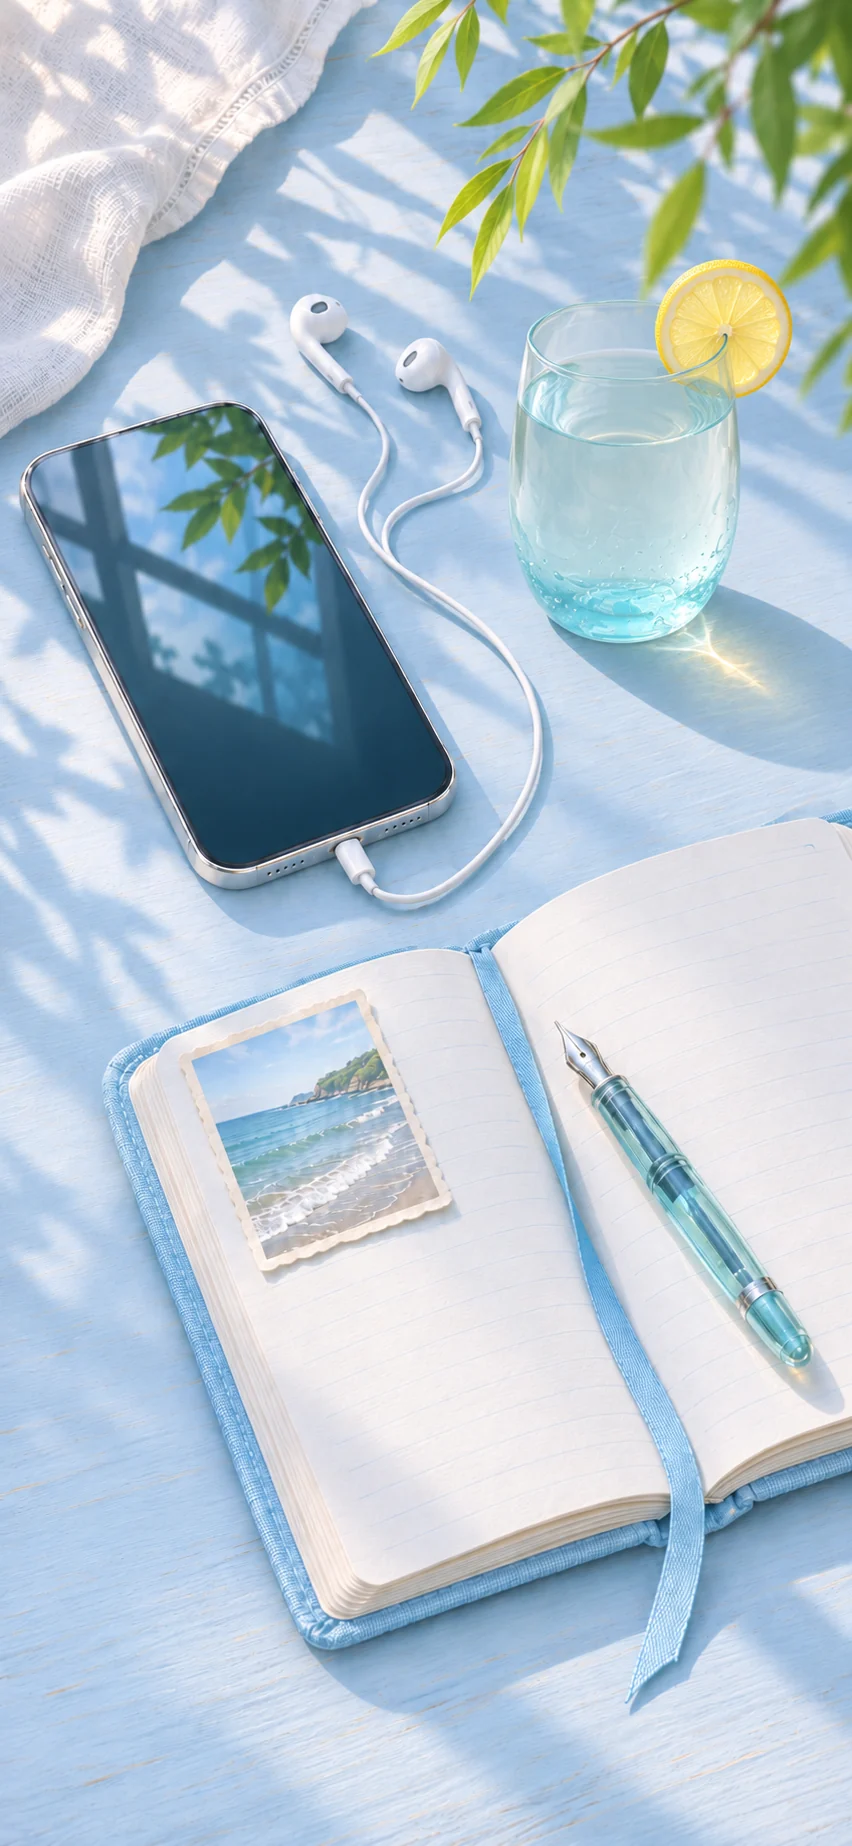
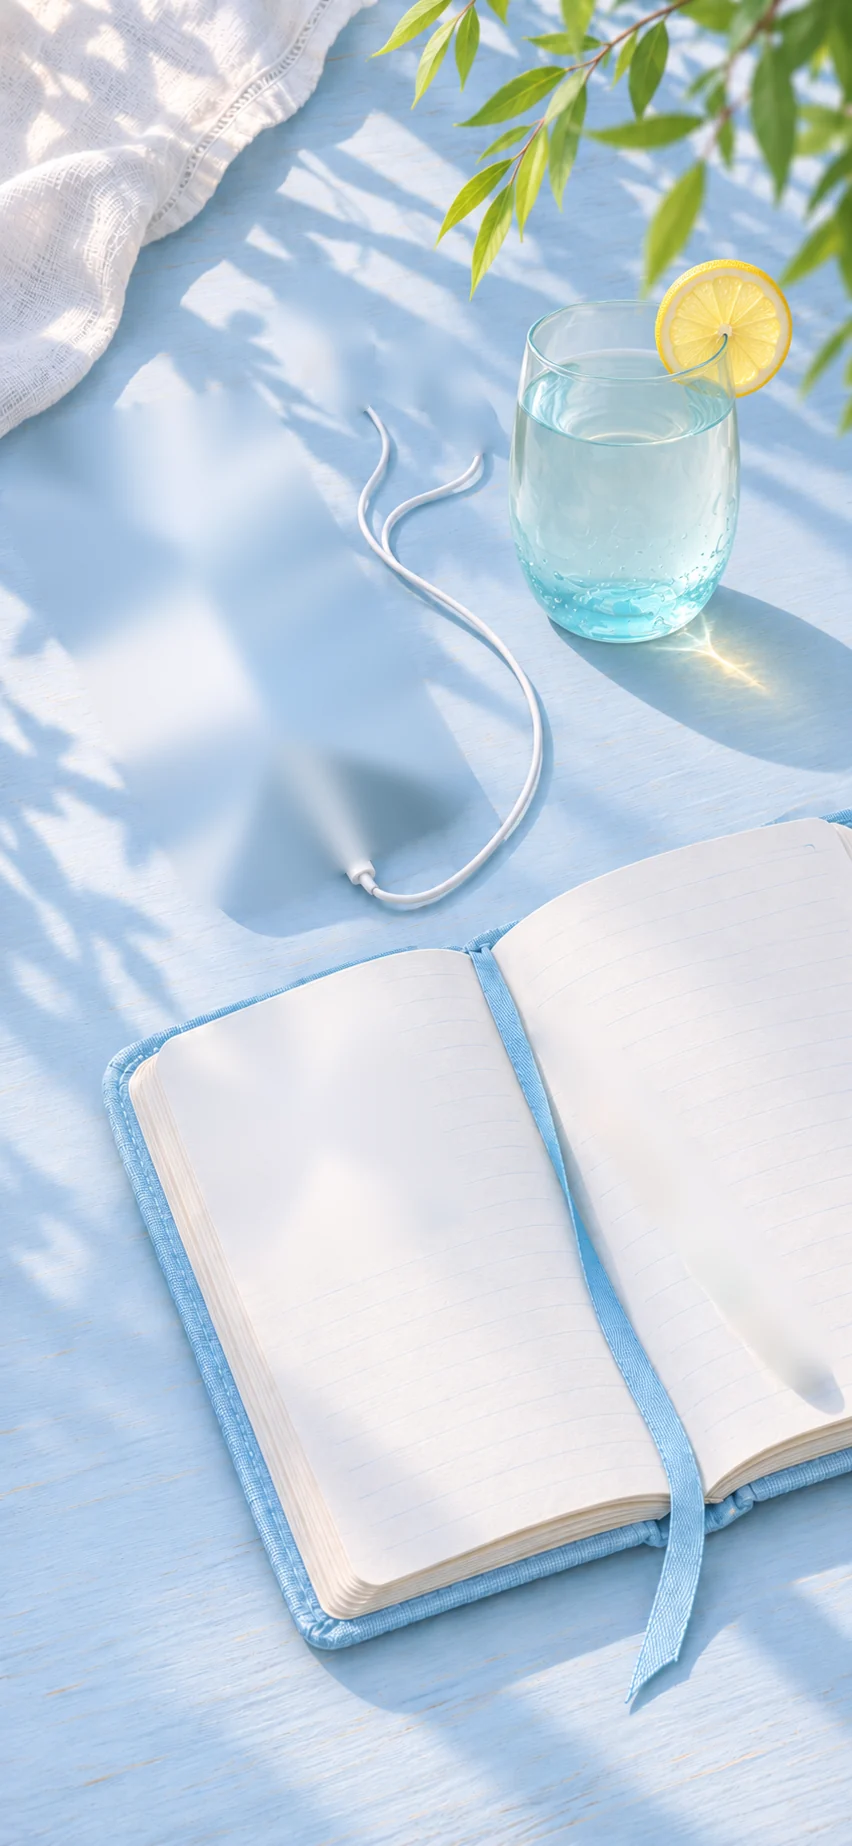
查手机：桌上的东西点了会动，拿起手机，换图标和壁纸（v0.8.570）
Claude-Session: https://claude.ai/code/session_01W7dSspLcssV21Xs5aU6zTf

diff --git a/phone/apps/peek/peek.js b/phone/apps/peek/peek.js
@@ -1,23 +1,19 @@
 // 查手机：TA 桌上的一角（作者让 GPT 画的一整张画，白天 / 夜里各一张，东西的位置一样）。
-// 桌上的耳机、水杯、本子、笔、照片点了只有一点反应；只有点手机会凑近，上滑解锁后是 TA 的满屏手机。
+// 水杯、照片、笔、耳机、手机是从画里抠出来单独放的，点一下各自动一动；只有点手机会把它拿起来，上滑解锁后是 TA 的满屏手机。
 // 手机里的各个应用还没做，点了先提示。
 import { h } from '../../core/util.js';
-import { page, icon, toast } from '../../core/ui.js';
+import { page, toast } from '../../core/ui.js';
 import * as time from '../../core/time.js';
 
 const BASE = 'assets/peek/', W = 852, H = 1846;
 const pc = (v, all) => v / all * 100 + '%';
-// 桌上能点的东西：[名字, 左, 上, 宽, 高（画上的像素）, 点了说的一句]
-const THINGS = [
-  ['耳机', 285, 285, 200, 150, '耳机线还缠着，像是刚摘下来。'],
-  ['水杯', 510, 260, 285, 385, '水还剩大半杯。'],
-  ['本子', 105, 830, 745, 790, '本子摊开着，这一页还没写字。'],
-  ['照片', 180, 990, 275, 285, '本子里夹着一张海边的照片。'],
-  ['笔', 555, 1015, 260, 360, '笔帽没盖。'],
-];
-const PHONE = { x: 20, y: 400, w: 440, h: 495, cx: 238, cy: 645, turn: 23 };   // 手机在画上的位置、屏幕正中、斜了多少度
-const DOCK = [['电话', 'phone'], ['搜索', 'search'], ['消息', 'chat'], ['音乐', 'music']];
-const APPS = [['备忘录', 'note'], ['相册', 'image'], ['日历', 'bookmark'], ['钱包', 'wallet'], ['购物车', 'shop'], ['饿了吗', 'flame'], ['论坛', 'comment'], ['短信', 'mail'], ['AI', 'sparkle'], ['设置', 'gear']];
+// 桌上能动的东西：[名字, 图, 左, 上, 宽, 高（画上的像素）]
+const THINGS = [['水杯', 'water', 505, 300, 240, 345], ['照片', 'photo', 171, 980, 295, 305], ['笔', 'pen', 535, 1006, 302, 380], ['耳机', 'buds', 277, 285, 213, 168]];
+const PHONE = ['手机', 'phone', 10, 392, 456, 516];
+// 把斜放的手机屏摆正：屏幕四个角 → 一个 1×1 方块的四个角（事先算好的透视矩阵，三行）
+const FACE = [[1.9219, -0.9494, 0.0676], [0.3933, 1.4361, -0.2326], [0.0261, 0.2559, 1]];
+const APPS = ['备忘录', '相册', '日历', '钱包', '购物车', '饿了吗', '论坛', '短信', 'AI', '设置', '相机'];
+const DOCK = ['电话', '搜索', '消息', '音乐'];
 
 const night = () => { const hh = time.isStory() ? time.story().hh : new Date().getHours(); return hh < 6 || hh >= 19; };
 const clock = () => { const s = time.isStory() ? time.story() : { hh: new Date().getHours(), mm: new Date().getMinutes(), date: new Date() }; return [`${s.hh}:${String(s.mm).padStart(2, '0')}`, s.date.toLocaleDateString('zh-CN', { month: 'long', day: 'numeric', weekday: 'long' })]; };
@@ -27,24 +23,28 @@ export function open() {
   const p = page({ app: 'peek', id: 'peek-main', title: '', back: true, cls: 'as-peek', onBack: () => back() || p.el.dispatchEvent(new CustomEvent('as-back', { bubbles: true })) });
   const mode = night() ? 'night' : 'day';
   p.el.dataset.mode = mode;
-  const say = h('div.pk-say', { role: 'status' });
-  let sayT = 0;
-  const tell = t => { say.textContent = t; say.classList.add('on'); clearTimeout(sayT); sayT = setTimeout(() => say.classList.remove('on'), 2200); };
-  const spot = ([name, x, y, w, hh, line]) => h('button.pk-spot', { 'aria-label': name, style: { left: pc(x, W), top: pc(y, H), width: pc(w, W), height: pc(hh, H) },
-    onclick: e => { const b = e.currentTarget; b.classList.remove('on'); void b.offsetWidth; b.classList.add('on'); tell(line); } });
-  const art = h('div.pk-art', h('img', { src: `${BASE}desk-${mode}.webp`, alt: '', draggable: false }), THINGS.map(spot),
-    h('button.pk-spot.pk-phone', { 'aria-label': '手机', style: { left: pc(PHONE.x, W), top: pc(PHONE.y, H), width: pc(PHONE.w, W), height: pc(PHONE.h, H) }, onclick: () => near(true) }));
+  const thing = ([name, k, x, y, w, hh], onclick) => h('button.pk-thing', { 'aria-label': name, dataset: { k }, style: { left: pc(x, W), top: pc(y, H), width: pc(w, W), height: pc(hh, H) }, onclick },
+    h('img', { src: `${BASE}${k}-${mode}.webp`, alt: '', draggable: false }));
+  const move = e => { const b = e.currentTarget; b.classList.remove('on'); void b.offsetWidth; b.classList.add('on'); };
+  const phone = thing(PHONE, () => near(true));
+  const art = h('div.pk-art', h('img', { src: `${BASE}desk-${mode}.webp`, alt: '', draggable: false }), THINGS.map(t => thing(t, move)), h('div.pk-dim'), phone);
   const [t, d] = clock();
   const lock = h('div.pk-lock', { dataset: { noSwipe: '' } }, h('b', t), h('span', d), h('em', '上滑解锁'));
   const home = h('div.pk-home', h('div.pk-pill', { role: 'button', onclick: () => leave() }, 'TA 的手机'),
-    h('div.pk-grid', APPS.map(app)), h('div.pk-dock', DOCK.map(app)));
-  const stage = h('div.pk-stage', { dataset: { noSwipe: '' } }, art, say, lock, home);
+    h('div.pk-grid', APPS.map((n, i) => app(n, i))), h('div.pk-dock', DOCK.map((n, i) => app(n, 12 + i))));
+  const stage = h('div.pk-stage', { dataset: { noSwipe: '' } }, art, lock, home);
   p.el.prepend(stage);
 
-  // 凑近：整张画朝手机推过去、转正；到了再亮起锁屏
+  // 拿起手机：手机从桌上飞起来、摆正，屏幕正好铺满；到了再亮起锁屏。
+  // 斜着到正着之间切成十几小步（让浏览器自己从头补到尾，中间会乱飞）
+  let fly;
   function near(on) {
-    const k = 2.3;
-    art.style.transform = on ? `rotate(${PHONE.turn}deg) scale(${k}) translate(${50 - PHONE.cx / W * 100}%, ${50 - PHONE.cy / H * 100}%)` : '';
+    if (on) {
+      const sw = stage.clientWidth, sh = stage.clientHeight, tx = -art.offsetLeft - phone.offsetLeft, ty = -art.offsetTop - phone.offsetTop;
+      const g = [FACE[0].map((v, i) => sw * v + tx * FACE[2][i]), FACE[1].map((v, i) => sh * v + ty * FACE[2][i]), FACE[2]].map(r => [r[0] / phone.offsetWidth, r[1] / phone.offsetHeight, r[2]]);
+      const at = t => { const a = g.map((r, i) => r.map((v, j) => (i === j ? 1 - t : 0) + t * v)); return { transform: `matrix3d(${a[0][0]},${a[1][0]},0,${a[2][0]},${a[0][1]},${a[1][1]},0,${a[2][1]},0,0,1,0,${a[0][2]},${a[1][2]},0,${a[2][2]})` }; };
+      fly = phone.animate(Array.from({ length: 13 }, (_, i) => at(i / 12)), { duration: 700, easing: 'cubic-bezier(.3, .7, .2, 1)', fill: 'both' });
+    } else fly?.reverse();
     stage.classList.toggle('is-near', on);
     if (!on) stage.classList.remove('is-open');
   }
@@ -63,6 +63,6 @@ export function open() {
   return p.el;
 }
 
-function app([name, ic]) {
-  return h('button.as-home-app', { onclick: () => toast(`「${name}」还没做`) }, h('span.as-home-app__icon', icon(ic, 28, 1.7)), h('span.as-home-app__name', name));
+function app(name, i) {
+  return h('button.as-home-app', { onclick: () => toast(`「${name}」还没做`) }, h('span.as-home-app__icon', { style: { backgroundPosition: `${i % 4 / 3 * 100}% ${(i >> 2) / 3 * 100}%` } }), h('span.as-home-app__name', name));
 }

diff --git a/phone/apps/peek/peek.css b/phone/apps/peek/peek.css
@@ -1,4 +1,4 @@
-/* 查手机：一整张桌面的画铺满，画上盖着看不见的点击区；点手机后整张画推近、转正，再盖上锁屏和 TA 的桌面 */
+/* 查手机：一整张桌面的画铺满，能动的东西是抠出来叠在原位的；点手机它飞起来摆正、铺满，再盖上锁屏和 TA 的桌面 */
 .as-peek { background: #cfe4f6; }
 .as-peek[data-mode="night"] { background: #142a4e; }
 .as-peek::before, .as-peek::after { display: none; }
@@ -8,19 +8,25 @@
 .as-peek .as-page__body { pointer-events: none; }
 .pk-stage { position: absolute; inset: 0; overflow: hidden; display: grid; place-items: center; }
 /* 画不裁（比手机屏窄的那一边留给背景色），宽高比固定，点击区才对得上 */
-.pk-art { position: relative; aspect-ratio: 852 / 1846; min-width: 100%; min-height: 100%; flex: none; transition: transform .75s cubic-bezier(.3, .7, .2, 1); will-change: transform; }
+.pk-art { position: relative; aspect-ratio: 852 / 1846; min-width: 100%; min-height: 100%; flex: none; }
 .pk-art > img { position: absolute; inset: 0; width: 100%; height: 100%; display: block; -webkit-user-select: none; user-select: none; }
-.pk-spot { position: absolute; border: 0; padding: 0; background: none; border-radius: 40%; cursor: pointer; -webkit-tap-highlight-color: transparent; }
-.pk-spot::after { content: ''; position: absolute; inset: 12%; border-radius: 50%; background: radial-gradient(closest-side, rgba(255, 255, 255, .55), rgba(255, 255, 255, 0)); opacity: 0; scale: .6; pointer-events: none; }
-.pk-spot.on::after { animation: pk-glow .7s ease-out; }
-@keyframes pk-glow { 30% { opacity: 1; } to { opacity: 0; scale: 1.25; } }
-.pk-phone::after { inset: 0; animation: pk-breathe 3.2s ease-in-out infinite; }
-@keyframes pk-breathe { 50% { opacity: .38; scale: .9; } }
-.pk-say { position: absolute; left: 50%; bottom: 9%; translate: -50% 8px; max-width: 82%; padding: 9px 16px; border-radius: 16px; font-size: 14px; line-height: 1.5; color: #fff; text-align: center; background: rgba(18, 42, 84, .5); -webkit-backdrop-filter: blur(10px) saturate(1.3); backdrop-filter: blur(10px) saturate(1.3); border: 1px solid rgba(255, 255, 255, .28); opacity: 0; pointer-events: none; transition: opacity .25s, translate .25s; }
-.pk-say.on { opacity: 1; translate: -50% 0; }
-.is-near .pk-say, .is-near .pk-spot { display: none; }
-.pk-lock, .pk-home { position: absolute; inset: 0; z-index: 2; background: #1b3a6b url(../../assets/wallpapers/apple-day.jpg) center / cover; color: #fff; opacity: 0; visibility: hidden; transition: opacity .35s .5s, visibility 0s .85s, transform .4s cubic-bezier(.3, .7, .2, 1); }
-.as-peek[data-mode="night"] .pk-lock, .as-peek[data-mode="night"] .pk-home { background-image: url(../../assets/wallpapers/apple-night.jpg); }
+.pk-thing { position: absolute; border: 0; padding: 0; background: none; cursor: pointer; -webkit-tap-highlight-color: transparent; }
+.pk-thing > img { width: 100%; height: 100%; display: block; pointer-events: none; -webkit-user-select: none; user-select: none; }
+.pk-thing[data-k="water"] { transform-origin: 49% 32%; }
+.pk-thing[data-k="buds"] { transform-origin: 88% 85%; }
+.pk-thing[data-k="water"].on { animation: pk-water 1.3s ease-in-out; }
+.pk-thing[data-k="photo"].on { animation: pk-photo .8s ease-in-out; }
+.pk-thing[data-k="pen"].on { animation: pk-pen 1s cubic-bezier(.3, .6, .3, 1); }
+.pk-thing[data-k="buds"].on { animation: pk-buds .8s ease-in-out; }
+@keyframes pk-water { 14% { rotate: 6deg; } 34% { rotate: -5deg; } 54% { rotate: 3deg; } 74% { rotate: -1.5deg; } }
+@keyframes pk-photo { 35% { translate: 0 -4%; rotate: -4deg; scale: 1.05; } 70% { rotate: 1deg; } }
+@keyframes pk-pen { 40% { translate: 6.4% -3.7%; } 78% { translate: -.8% .5%; } }
+@keyframes pk-buds { 20% { rotate: -4deg; } 45% { rotate: 3deg; } 70% { rotate: -1.5deg; } }
+.pk-dim { position: absolute; inset: 0; background: #0a1a36; opacity: 0; pointer-events: none; transition: opacity .5s; }
+.is-near .pk-dim { opacity: .6; }
+.pk-thing[data-k="phone"] { transform-origin: 0 0; will-change: transform; }
+.is-near .pk-thing { pointer-events: none; }
+.pk-lock, .pk-home { position: absolute; inset: 0; z-index: 2; background: #1b3a6b url(../../assets/peek/wall.webp) center / cover; color: #fff; opacity: 0; visibility: hidden; transition: opacity .35s .5s, visibility 0s .85s, transform .4s cubic-bezier(.3, .7, .2, 1); }
 .is-near .pk-lock, .is-open .pk-home { opacity: 1; visibility: visible; transition: opacity .35s .5s, visibility 0s .5s, transform .4s cubic-bezier(.3, .7, .2, 1); }
 .pk-lock { z-index: 3; display: flex; flex-direction: column; align-items: center; touch-action: none; text-shadow: 0 1px 8px rgba(10, 30, 70, .35); }
 .pk-lock b { margin-top: 26%; font-size: 84px; font-weight: 300; line-height: 1; letter-spacing: 1px; }
@@ -35,6 +41,6 @@
 .pk-dock { display: flex; justify-content: space-around; padding: 12px 6px; border-radius: 30px; background: rgba(255, 255, 255, .2); border: 1px solid rgba(255, 255, 255, .3); -webkit-backdrop-filter: blur(14px) saturate(1.4); backdrop-filter: blur(14px) saturate(1.4); }
 .pk-dock .as-home-app { width: 58px; }
 .pk-dock .as-home-app__name { display: none; }
-.pk-home .as-home-app__icon { color: #fff; background: rgba(255, 255, 255, .2); border: 1px solid rgba(255, 255, 255, .32); -webkit-backdrop-filter: blur(12px) saturate(1.4); backdrop-filter: blur(12px) saturate(1.4); box-shadow: 0 4px 14px rgba(10, 30, 70, .18); }
+.pk-home .as-home-app__icon { background: url(../../assets/peek/icons.webp) 0 0 / 400% 400%; border-radius: 0; box-shadow: none; -webkit-backdrop-filter: none; backdrop-filter: none; scale: 1; filter: drop-shadow(0 3px 6px rgba(10, 30, 70, .22)); }
 .pk-home .as-home-app__name { color: #fff; font-size: 12px; text-shadow: 0 1px 4px rgba(10, 30, 70, .45); }
-@media (prefers-reduced-motion: reduce) { .pk-art, .pk-lock, .pk-home { transition-duration: .01s; } .pk-phone::after, .pk-lock em { animation: none; } }
+@media (prefers-reduced-motion: reduce) { .pk-thing, .pk-lock, .pk-home { transition-duration: .01s; } .pk-thing.on, .pk-lock em { animation: none; } }

diff --git a/phone/apps/settings/settings.js b/phone/apps/settings/settings.js
@@ -14,7 +14,7 @@ import { importClockFont, removeClockFont, userFonts, hanFonts, fontKey, fontNam
 import { themeName } from '../../core/skin.js';
 import { LANGS, langName, relang } from '../../core/translate.js';
 
-export const VERSION = '0.8.569';
+export const VERSION = '0.8.570';
 export const FABS = [['forest', '森林小芽'], ['candy', '糖果'], ['ocean', '海洋'], ['sunflower', '向日葵'], ['neon', '霓虹'], ['iphone', 'iPhone'],
   ['ancient', '古风'], ['xianxia', '仙侠'], ['magic', '魔法'], ['steampunk', '蒸汽朋克'], ['retro', '复古游戏机'], ['autumn', '秋日']];
 const MODE_LABEL = { day: '日间', night: '夜间', auto: '跟随系统' };

diff --git a/docs/pages-forum.md b/docs/pages-forum.md
@@ -454,6 +454,7 @@ const raw = await generate({ conn: resolveConn('text', 'forum'), system: '', app
 - Tauri 那边：`sync.js` 现有的注入两边都能用，就不用另外处理；如果发现哪边读不到，按 CLAUDE.md 说清楚是哪边。
 
 ## 更新记录
+- v0.8.570 查手机：桌上的水杯、照片、笔、耳机点了各自动一动（不再冒白光和说明文字）；点手机是把它拿起来摆正；TA 的手机换上新的图标和默认壁纸
 - v0.8.569 新应用「查手机」的壳子：TA 桌上的一角（白天 / 夜里两张画，跟着故事时间换），点耳机、水杯、本子、照片、笔有小反应；点手机凑近，上滑解锁，进 TA 的满屏桌面。里面各个应用还没做
 - v0.8.568 岁岁砂：每件事的「想起」多一个「拿不准」（TA 提起时留余地、不说死）；整理和每轮顺手记时 AI 自己标「拿不准」「噪声」，可以改
 - v0.8.567 岁岁砂「整理」第一栏加标题「根据什么」和小 i：说明「记下的事」是让 AI 把已经记下的事回头再理一遍
